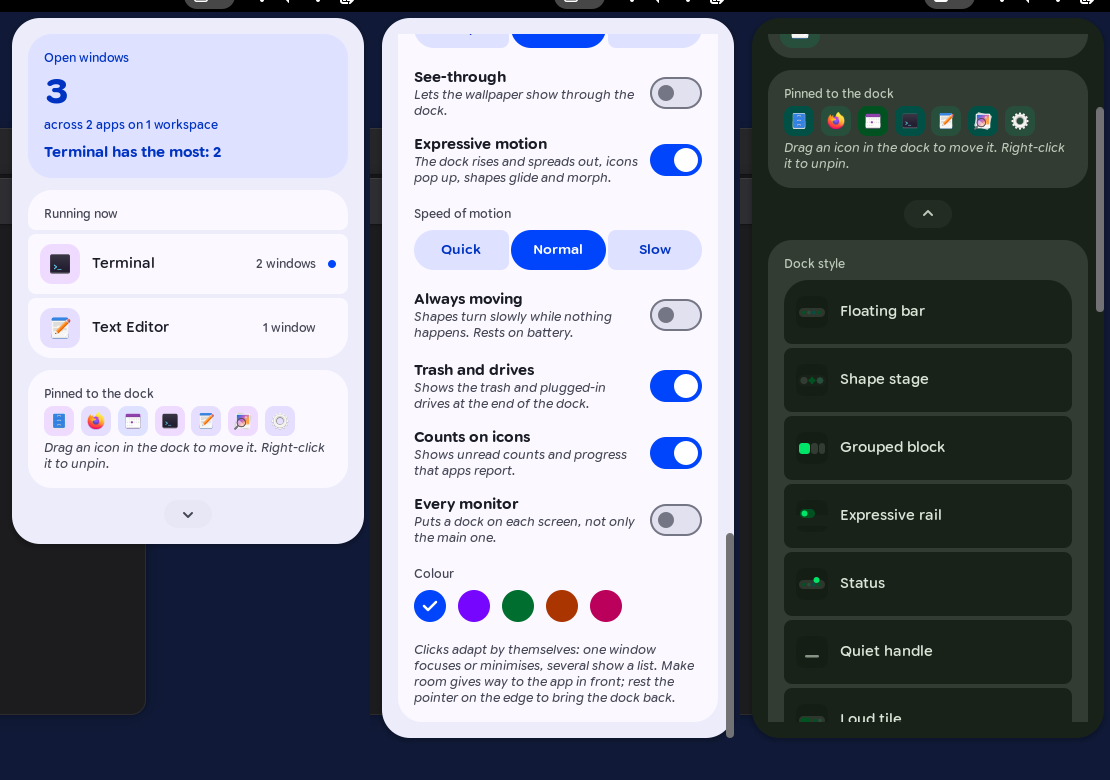
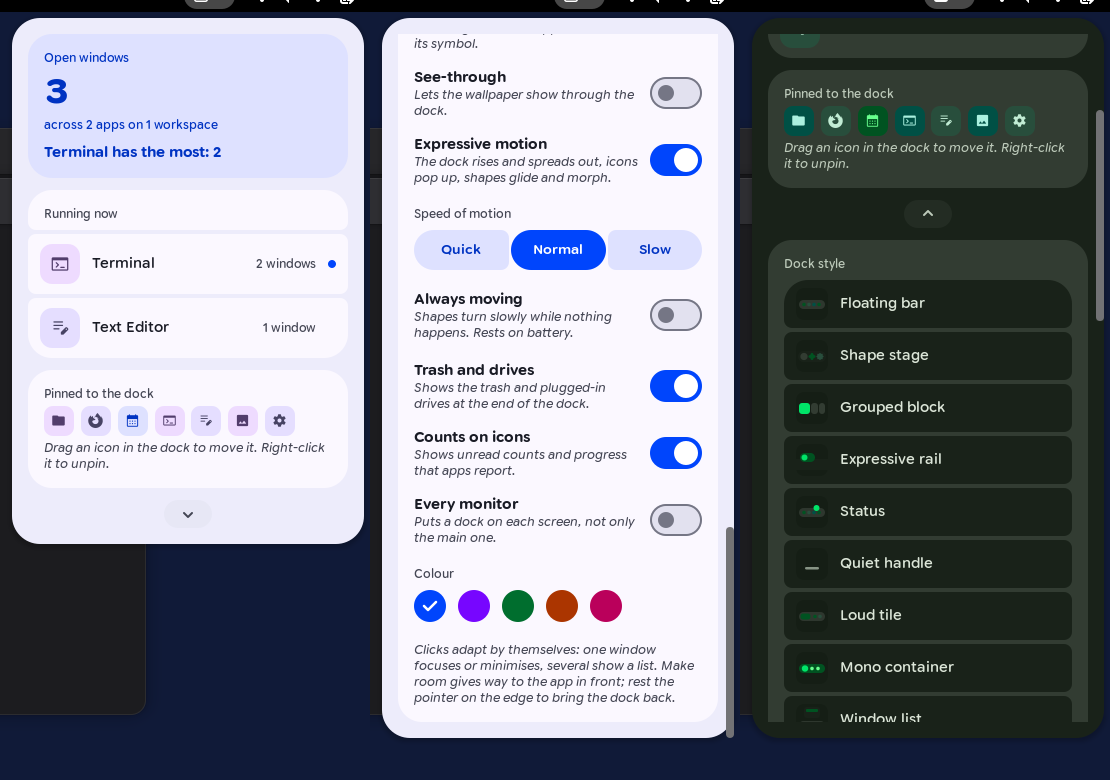
Document the symbols, the new sizes and the picker, with new pictures

diff --git a/README.md b/README.md
@@ -29,14 +29,14 @@ Harbor sends no notifications, reads nothing from the network and keeps one smal
 
 - **Eleven Styles:** From a floating bar to pebbles, an edge-to-edge rail or a split by workspace (see [The Styles](#the-styles)).
 - **Pinned and Running:** Pinned apps first, then apps that run without being pinned, then drives, the trash and **Show apps**.
-- **Free Icons:** The apps' own icons stand large and free. A shape behind an icon only shows a state: the pointer on it, the app starting, the app waiting. A shape in the focused app's tone glides from app to app.
+- **Symbols on Tiles:** Every app rests on a tile in its own tone, with a flat symbol in one colour: brand logos for apps like **Firefox**, **Claude** or **LibreOffice**, Material symbols for the rest. The focused app's tile turns primary and glides from app to app (see [Symbols](#symbols)).
 - **Expressive Motion:** The dock rises as a pill from the middle of the edge, spreads to both sides with a swing, and lets the icons pop up from the middle outwards (see [Motion](#motion)).
 - **Clicks That Adapt:** One click starts, focuses or minimises; an app with several windows shows a **window list** instead of pictures of windows.
 - **Making Room:** The dock steps aside when a window of the app in front comes close, and returns when the pointer rests on the edge. A thin handle can stay behind, per style.
 - **Status on the Icons:** Unread counts that pop and count up, a progress ring, a wiggle and a warning colour when an app wants attention, and a small wave while an app plays music.
 - **Minimise Into the Icon:** A window minimises into its app's icon in the dock.
 - **Drag to Arrange:** Drag an icon along the dock to move it, out of the dock to unpin it, or from the app grid into the dock to pin it.
-- **Right-Click Menu:** The app's own actions, a new window, pin or unpin, and quit, laid out like the rest of Harbor.
+- **Right-Click Menu:** The app's own actions, a new window, pin or unpin, quit, and **Change symbol**, laid out like the rest of Harbor.
 - **A Mark in the Top Bar:** Two app tiles on a shelf and the number of open windows. Resting the pointer on it shows a small look; a click opens the menu.
 - **Every Monitor:** One dock per screen if you want it, each marking the windows on its own screen.
 - **Five Colour Styles:** **Blue**, **violet**, **green**, **orange** and **pink**, each in light and dark.
@@ -50,14 +50,14 @@ Harbor sends no notifications, reads nothing from the network and keeps one smal
 
 | Style | What it looks like | What is special |
 | :--- | :--- | :--- |
-| **Floating bar** | A rounded bar floating above the edge | The default. A shape in the app's tone glides behind the focused app. |
+| **Floating bar** | A rounded bar floating above the edge | The default. The focused app's tile is a primary one that glides from app to app. |
 | **Shape stage** | A pill; every app stands on a shape | The shape is the run indicator: a circle while closed, more points with more windows. |
 | **Grouped block** | Three named groups instead of one bar | The focused app's segment turns fully round and fills with the primary colour. |
 | **Expressive rail** | A rail along the whole edge | The focused app unfolds into a pill with its name. Always keeps its room unless set to **Hide**. |
 | **Status** | The floating bar | Status is said out loud: "64 % downloaded", "Wants attention", even with **Counts on icons** off. |
 | **Quiet handle** | A compact, calmer bar | Less padding and softer corners; made for a dock that is often away. |
 | **Loud tile** | The floating bar led by a large tile | The tile shows the focused app with its window count; without one, all open windows. |
-| **Mono container** | A round bar in one colour | Every icon in one colour; closed apps fade back; a primary shape glides behind the focused app. |
+| **Mono container** | A round bar in one colour | Symbols stand free, without tiles, always in one colour; closed apps fade back; a primary circle glides behind the focused app. |
 | **Window list** | The floating bar | An app's window list opens as soon as the pointer rests on it. |
 | **Pebbles** | No bar; every app floats on its own | Pebbles near the pointer grow; the one under it turns into a cookie and shows its name. Pebbles appear one by one. |
 | **Workspace split** | Three floating parts | Workspaces as buttons; apps without a window on this workspace fade back. |
@@ -72,7 +72,7 @@ Every style works at the **left**, **bottom** and **right** edge (*tested* in th
 
 - **Open Windows:** The one loud tile: how many windows are open, across how many apps and workspaces, and which app has the most.
 - **Running Now:** Every running app with its window count; a dot marks the focused one. A click acts like a click in the dock.
-- **Pinned to the Dock:** The pinned apps as small icons.
+- **Pinned to the Dock:** The pinned apps as small tiles with their symbols.
 - **Settings:** Behind the chevron at the bottom, closed again whenever the menu opens.
 
 ![The look on hover, and the mark while the dock is away](readmestuff/topbar.png)
@@ -85,6 +85,23 @@ Every style works at the **left**, **bottom** and **right** edge (*tested* in th
 
 ---
 
+## Symbols
+
+![The symbol picker in the right-click menu](readmestuff/picker.png)
+
+With **Symbolic icons** on (the default), an app shows the first of these that exists:
+
+| Order | Where it comes from |
+| :--- | :--- |
+| **1. The symbol you chose** | Right-click the app, **Change symbol**, search, pick. **Automatic** goes back. Kept per app id in **`settings.json`** under **`symbols`**. |
+| **2. A shipped symbol that matches the app id** | **297 symbols** in **`extension/symbols`**: 124 brand logos from **Simple Icons** and 173 rounded Material Symbols. `org.mozilla.firefox` finds **Firefox**, `org.gnome.Nautilus` the **folder**, `libreoffice-writer` **LibreOffice Writer**. |
+| **3. The icon theme's symbolic icon** | `<icon>-symbolic` from the current icon theme. |
+| **4. The app's own icon in one colour** | Tinted, so it still matches the others from a distance. |
+
+With **Symbolic icons** off, the apps' own colour icons rest on the same tiles. Brands that **Simple Icons** does not have (among them **Chromium**, **Slack**, **Kitty** and **OpenAI**) fall back to a generic symbol; the list of symbols and their matching words is in **`tools/symbols.list.js`**.
+
+---
+
 ## Settings
 
 | Setting | Choices (default in bold) | What it does |
@@ -93,8 +110,9 @@ Every style works at the **left**, **bottom** and **right** edge (*tested* in th
 | **Where the dock sits** | Left, **Bottom**, Right | The screen edge. |
 | **Handle when away** | **On**, Off, for each style on its own | A thin grip stays at the edge while the dock is away. |
 | **Show on hover** | **On**, Off | Resting on the handle brings the dock; off, it takes a click. |
-| **Icon size** | Small 52, **Medium 64**, Large 76 | The size of the app icons as you see them; everything in a style scales with it. An earlier **Huge** becomes **Large**. |
+| **Icon size** | Small 40, **Medium 48**, Large 56, Huge 64 | The size of an app's tile; the symbol on it is half as large. Everything in a style scales with it. |
 | **When a window comes close** | Stay, **Make room**, Hide | **Stay** keeps the dock and its room; windows maximise up to it. **Make room** steps aside while a window of the app in front overlaps it. **Hide** stays away until you need it. |
+| **Symbolic icons** | **On**, Off | Flat symbols in the dock's colours instead of the apps' own icons (see [Symbols](#symbols)). |
 | **See-through** | On, **Off** | The bars at **78 %**, as in **Ledge**. |
 | **Expressive motion** | **On**, Off | Springs for appearing, going and every state; off, the dock slides as calmly as before. |
 | **Speed of motion** | Quick, **Normal**, Slow | About **350**, **500** or **700 ms** for the dock to appear; all motion follows. |
@@ -123,10 +141,10 @@ journalctl -f -o cat /usr/bin/gnome-shell | grep Harbor
 | **Appearing** | A pill rises from the middle of the edge, spreads to both sides past its length and back, and the icons pop up from the middle outwards. Groups of a style (**Workspace split**, **Grouped block**) follow one another. |
 | **Going** | The reverse in about two thirds of the time, without swinging: the icons gather in the middle, the bar draws into a pill and sinks. |
 | **A new style** | It shows itself with its own appearing, even on a dock that is away. |
-| **Starting an app** | Its shape breathes between circle and cookie and the icon hops, until the window comes (at most **10 s**). |
+| **Starting an app** | Its tile breathes between circle and cookie and the symbol hops, until the window comes (at most **10 s**). |
 | **A new or closed app** | Its neighbours move apart and it grows in, or it shrinks and they close up. |
-| **Focus** | The focus shape glides to the next app and follows it if it moves. |
-| **Hover and click** | A shape grows and morphs behind the icon, the icon lifts **4 px**; a press pushes the slot in and it springs back. |
+| **Focus** | The primary tile glides to the next app, as a cookie on the way, and follows it if it moves. |
+| **Hover and click** | The tile morphs into a cookie and the symbol lifts **4 px**; a press pushes the tile in and it springs back. |
 | **Counts and attention** | A new count pops and counts up; an app that waits wiggles every **4 s** and pulses. |
 
 The springs are Material 3 Expressive's, as in **Ledge**. GNOME's own **Animations** switch turns all of it off.
@@ -201,6 +219,7 @@ flowchart TD
         Status["Status<br/><b>counts, progress, music</b>"]
         Theme["ThemeController<br/><b>colour × light/dark × motion</b>"]
         Settings["SettingsStore<br/><b>settings.json, watched</b>"]
+        Symbols["Symbols<br/><b>catalog.json & SVGs</b>"]
         Docks["Docks<br/><b>one per monitor</b>"]
         Style["Dock style<br/><b>one of eleven</b>"]
         Top["Top bar mark & menu"]
@@ -218,6 +237,8 @@ flowchart TD
     Theme --> Style
     Theme --> Top
     Docks --> Style
+    Symbols --> Style
+    Symbols --> Top
 ```
 
 Colours come from **`extension/lib/palettes.js`**: each style is Material 3's **SchemeVibrant** of one seed. Structure is in **`tools/stylesheet.template.css`**, written once per colour and scheme into **`extension/stylesheet.css`** by **`gjs -m tools/build-stylesheet.js`**. Text is set through **Pango** attributes, because St cannot reach the axes of a variable font.
@@ -231,6 +252,7 @@ Colours come from **`extension/lib/palettes.js`**: each style is Material 3's **
 | **Unit tests** | `for t in tests/*.test.js; do gjs -m "$t"; done` |
 | **Motion frame by frame** | `HARBOR_ONLY="floating-bar pebbles" tools/headless/run.sh motion 190` |
 | **Stylesheet** | `gjs -m tools/build-stylesheet.js` |
+| **Symbols** | `gjs -m tools/build-symbols.js` fetches the list in **`tools/symbols.list.js`** from **jsDelivr** at fixed versions and writes **`extension/symbols`** |
 | **Headless shell** | `tools/headless/run.sh <script> [seconds]` with a script from **`tools/headless/scripts`**; screenshots land in **`$TMPDIR/harbor-headless`** |
 | **Two monitors** | `HARBOR_MONITORS=2 tools/headless/run.sh lifecycle` |
 | **Beside other extensions** | `HARBOR_WITH="tally@thomashaiden=$HOME/git/tally/extension" tools/headless/run.sh lifecycle` |
@@ -241,7 +263,8 @@ Colours come from **`extension/lib/palettes.js`**: each style is Material 3's **
 
 | Area | Evidence |
 | :--- | :--- |
-| **Settings, shapes, springs, words, layout rules** | ***Tested:*** 48 unit tests. |
+| **Settings, shapes, springs, words, layout rules, matching symbols to app ids** | ***Tested:*** 56 unit tests, 26 real app ids among them. |
+| **Symbols on tiles in every style, the picker, choosing, Automatic, Symbolic icons off, symbols in the top bar menu** | ***Tested*** in the headless shell (`styles`, `symbols` scripts), light and dark. |
 | **Appearing and going in every style, focus gliding, hover, start, attention, counts** | ***Tested*** in the headless shell, frame by frame in slow motion (`motion` script). |
 | **Make room for the app in front, edge, handle per style, see-through, minimising into the icon** | ***Tested*** in the headless shell (`behave` script). |
 | **All eleven styles at three edges, light and dark** | ***Tested*** in the headless shell by screenshot. |
@@ -250,14 +273,15 @@ Colours come from **`extension/lib/palettes.js`**: each style is Material 3's **
 | **Two monitors, overview, switching off and on through every style** | ***Tested*** in the headless shell, beside **Tally**, **Ember** and **Torch**, without errors. |
 | **Dragging with a real mouse, the app grid as a drag source** | ***Built.*** The drop itself is tested; a real drag is not. |
 | **Real LauncherEntry and MPRIS senders** | ***Built.*** Tested with states handed in by the test script. |
-| **A real session after login, real second monitor** | ***Planned:*** not yet run outside the headless shell. |
+| **A real session after login, real second monitor, symbols with your own apps and icon theme** | ***Planned:*** not yet run outside the headless shell. |
 
 ---
 
 ## Decisions Made While Building
 
 - **Colours through one stylesheet class per scheme, not only `set_style()`:** St has no CSS variables, so the stylesheet is written once per colour and scheme and a colour change swaps one class. Hover and focus states keep working this way. Values that scale or animate are set in code.
-- **Free icons, shapes only for states:** An icon on a permanent tile looked cramped. Each app keeps a tone (**primary**, **secondary** or **tertiary container**, chosen from its app id), but it only shows behind the icon on hover, at a start, and as the focus shape.
+- **Symbols on tiles, as in the design:** Free colour icons made the dock look like Dash to Dock. Every app rests on a tile in its tone (**primary**, **secondary** or **tertiary container**, chosen from its app id) with a flat symbol; a colour icon on a tile looked cramped, a symbol does not.
+- **Symbols shipped as files, nothing at run time:** Brand logos come from **Simple Icons** (CC0), the rest from **Material Symbols** (Apache 2.0); the build script removes their fills so the shell paints them in the tile's colour.
 - **Bars painted behind the buttons:** A bar is drawn by a stand-in on a layer below the icons, so it can spread from a pill and a focus shape can glide between it and the icons.
 - **Resting on the edge instead of a push:** A push of 100 px was hard on a touchpad; 200 ms on the last row is as hard to set off by passing by.
 - **Make room for the app in front only:** Every window on the workspace kept the dock away almost always.
@@ -273,4 +297,4 @@ Colours come from **`extension/lib/palettes.js`**: each style is Material 3's **
 
 ## License
 
-MIT, see **[LICENSE](LICENSE)**. Google Sans Flex is under the SIL Open Font License, see **`toms-expressive-design/fonts/OFL.txt`**.
+MIT, see **[LICENSE](LICENSE)**. Google Sans Flex is under the SIL Open Font License, see **`toms-expressive-design/fonts/OFL.txt`**. The symbols keep their own licences and the logos remain trademarks of their owners, see **[extension/LICENSES](extension/LICENSES/README.md)**.
